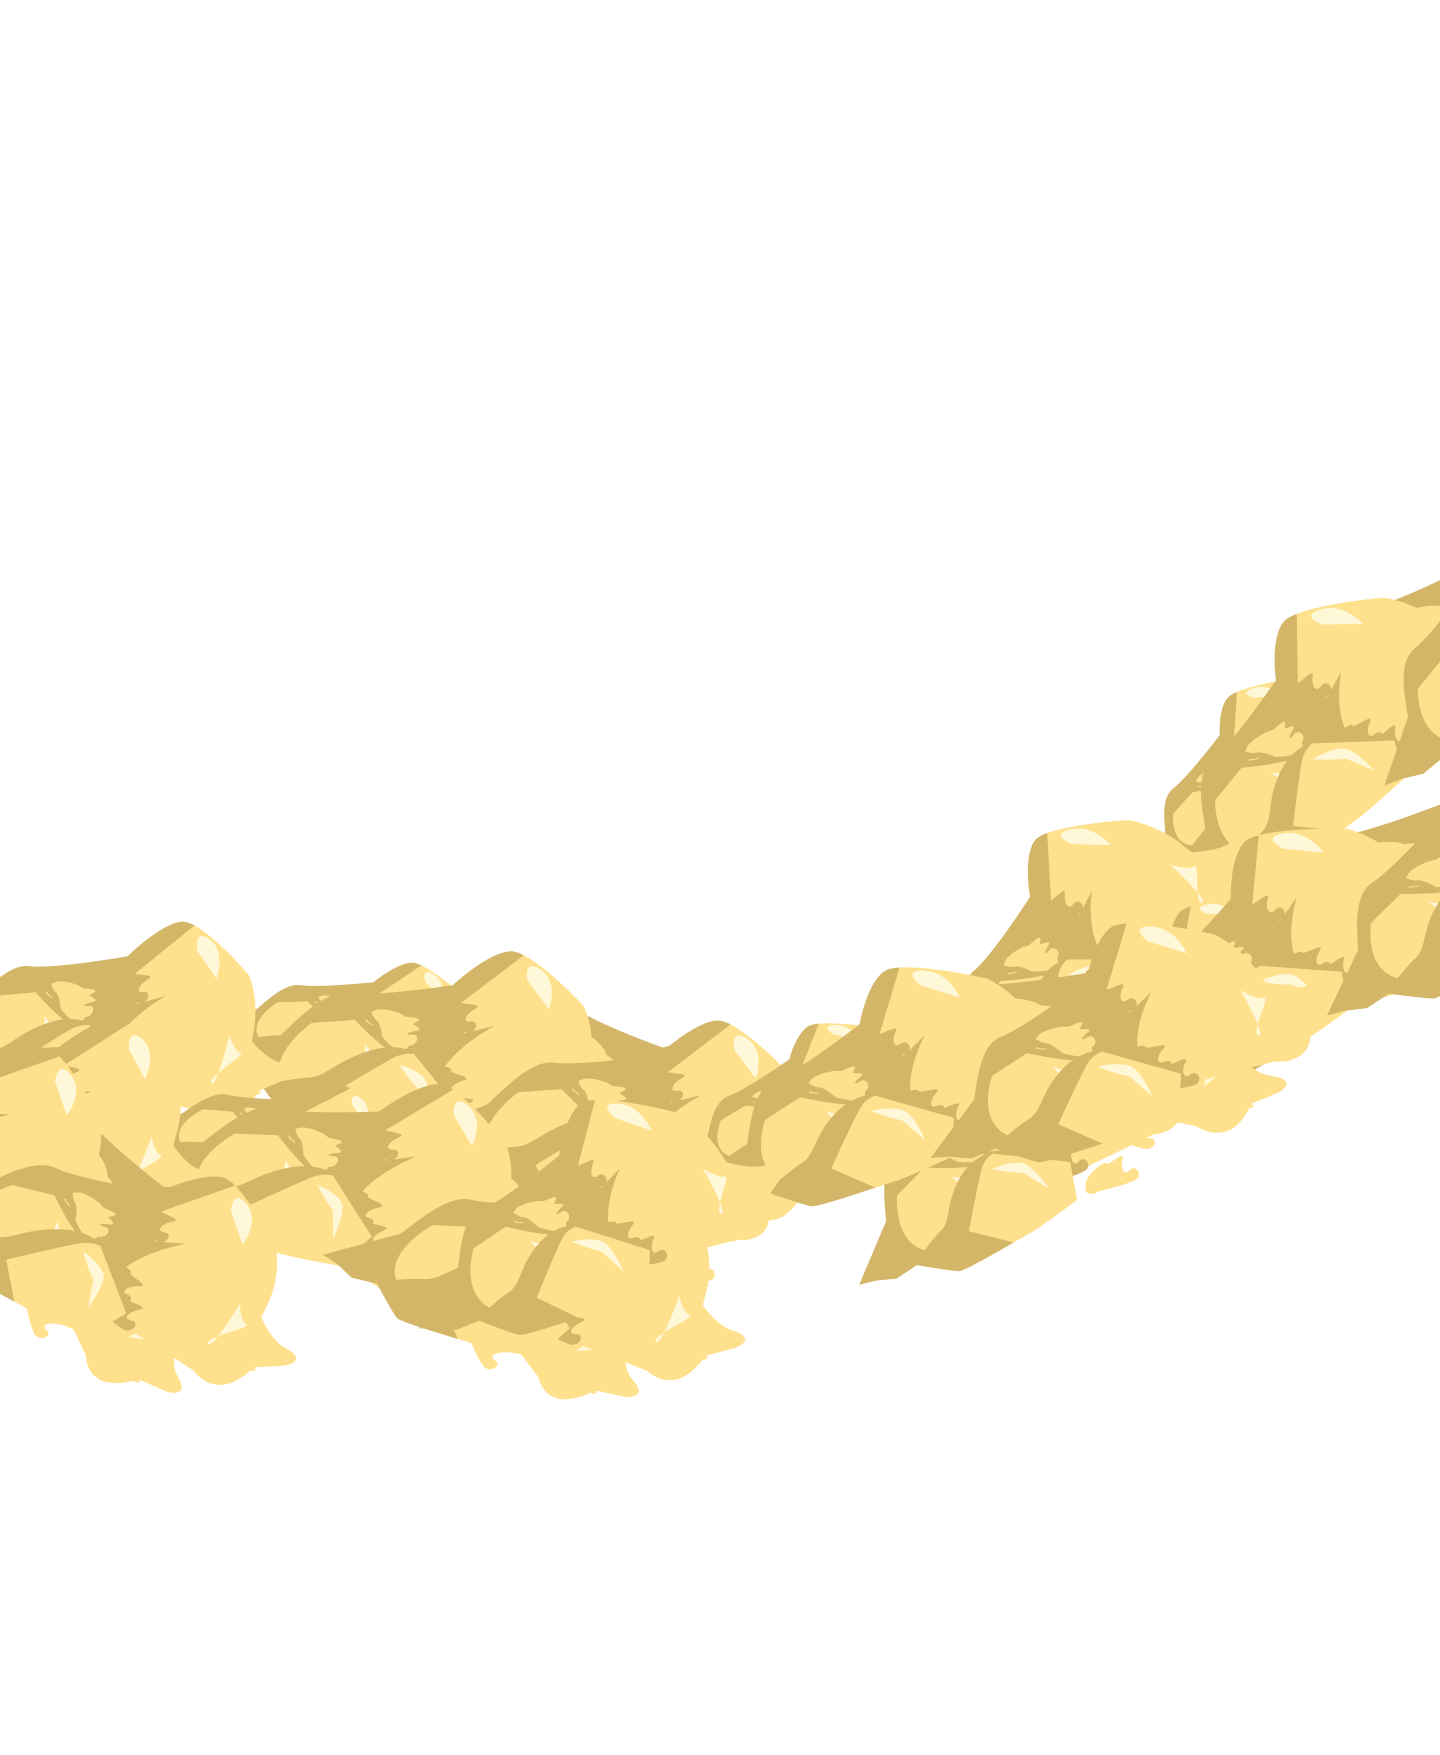
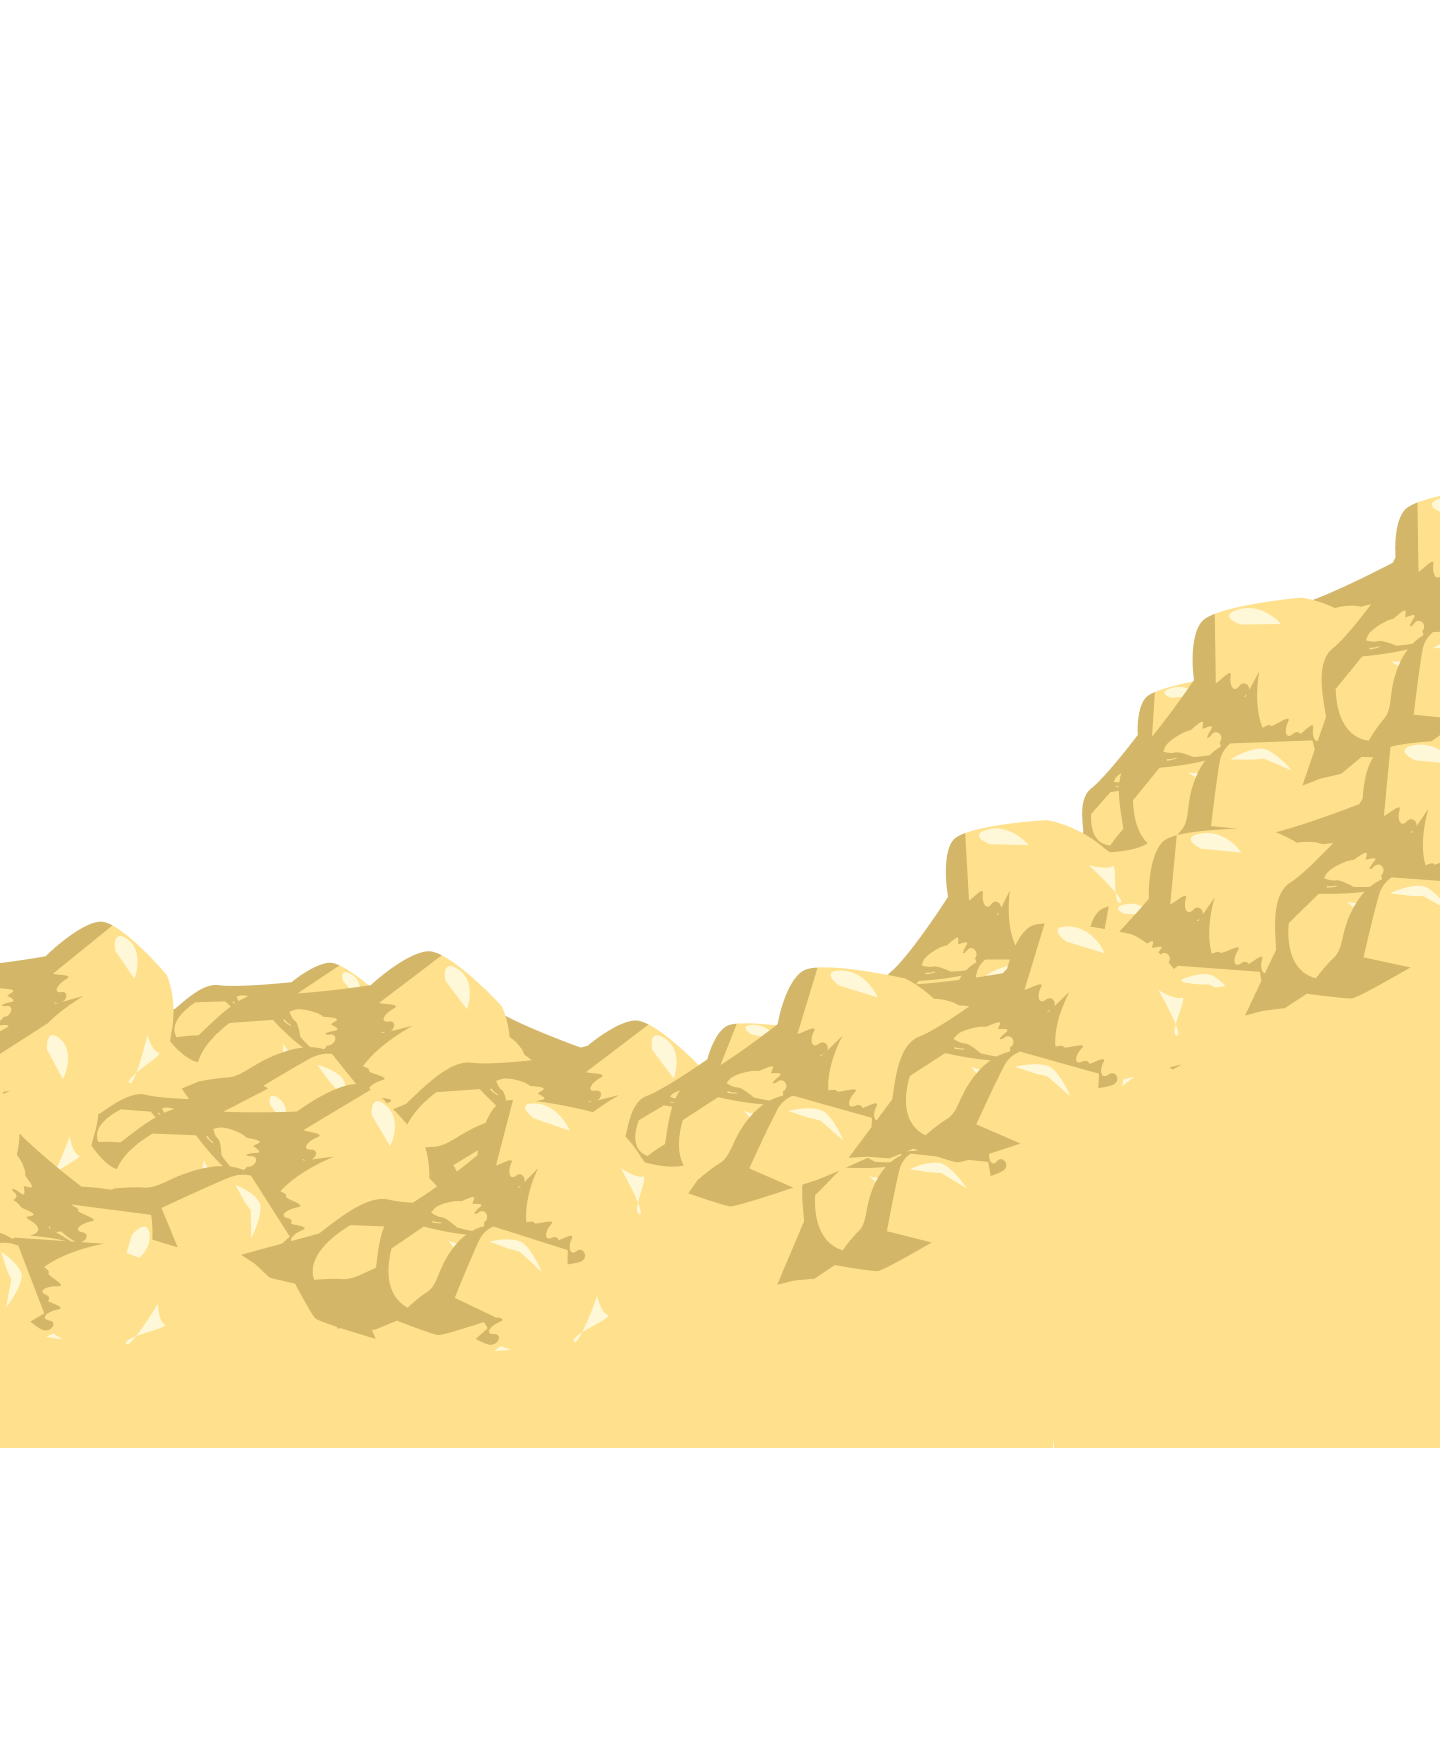
Sections statiques terminées jusque 4

Changed region(s): [[0.0, 0.2769, 1.0, 0.8308]]

diff --git a/index.html b/index.html
@@ -17,11 +17,11 @@
       <!-- Pile de sable solo -->
       <img class="col-span-full row-span-full w-auto h-auto justify-self-end mt-40" src="./src/assets/single-sand-pile.png">
 
-      <!-- Road -->
+      <!-- Road bis -->
       <svg class="col-span-full row-span-full w-auto h-auto justify-self-end mt-206" xmlns="http://www.w3.org/2000/svg" width="208" height="1005" viewBox="0 0 208 1005" fill="none"><path d="M177.029 8.70079e-05L0 0L214.382 114.093L519.349 566.384L256 853C311.324 951.675 410.775 1096.76 681.864 924.082C952.954 751.401 893.941 613.666 830.549 566.384L309.047 37.5215L177.029 8.70079e-05Z" fill="black" /><path d="M93 2L352 100" stroke="#EEFF00" stroke-width="2" />
       </svg>
 
-      <h1 class="col-span-full row-span-full justify-self-start self-center font-bold text-9xl w-200 ml-50 ">Le sable une ressource fragile ?</h1>
+      <h1 class="col-span-full row-span-full justify-self-start self-center font-extrabold text-9xl w-200 ml-40 ">Le sable une ressource fragile ?</h1>
 
       <!-- Ademe logo -->
       <div class="z-10 w-30 col-span-full row-span-full justify-self-end mt-5 mr-5">
@@ -31,34 +31,157 @@
     </section>
 
     <!-- Section 2 -->
-    <section class="grid grid-cols-1 grid-rows-1 h-210 bg-bg-blue rounded-b-2xl">
+    <section class="grid grid-cols-1 grid-rows-1 h-210 bg-bg-blue">
 
-      <h1 class="z-10 col-span-full row-span-full justify-self-start text-center self-center font-bold text-8xl w-300 ml-50">50 milliards de tonnes de sable extraites chaque année</h1>
+      <h1 class="z-10 col-span-full row-span-full justify-self-start text-center self-center font-extrabold text-8xl w-300 ml-40">50 milliards de tonnes de sable extraites chaque année</h1>
 
       <!-- transition piles de sables -->
-      <section class="col-span-full row-span-full justify-self-end -mt-100 w-full">
+      <section class="col-span-full row-span-full justify-self-end -mt-145 w-full">
         <img class="w-full h-auto object-cover" src="./src/assets/sand-pile-transition.png" alt="Transition sable">
       </section>
 
     </section>
 
 
+
+    
     
     <!-- Section 3 -->
-    <section class="grid grid-cols-1 grid-rows-1 bg-bg-yellow h-250">
-      <section class="flex flex-row w-full justify-between px-50 mt-200">
-        <section>
-          <p class="text-xl font-bold">30000 Tonnes</p>
-          <p>Un kilomètre d'autoroute</p>
-        </section>
+    <section class="grid grid-cols-1 grid-rows-1 bg-bg-yellow h-fit">
 
+
+      <!-- route -->
+      <section class="col-span-full row-span-full justify-self-end mt-0 w-full">
+        <img class="w-full h-auto object-cover" src="./src/assets/road.png" alt="route">
+      </section>
+
+
+      <!-- maison -->
+      <section class="col-span-full row-span-full justify-self-end mt-100">
+        <img class="w-full h-auto object-cover" src="./src/assets/house.png" alt="Maison">
+      </section>
+
+      <!-- Text section -->
+      <section class="col-span-full row-span-full flex flex-row w-full justify-between px-40 pb-100 pt-300">
+        <section class="">
+          <p class="text-5xl font-bold">30000 Tonnes</p>
+          <p class="text-4xl">Un kilomètre d'autoroute</p>
+        </section>
         <section>
-          <p class="text-xl font-bold">200 Tonnes</p>
-          <p>Une maison de taille moyenne</p>
+          <p class="text-5xl font-bold">200 Tonnes</p>
+          <p class="text-4xl">Une maison de taille moyenne</p>
         </section>
       </section>
 
+
+      <h1 class="z-10 col-span-full row-span-full justify-self-start text-center self-center font-extrabold text-8xl w-350 pl-40 pt-300">
+        D'ou viennent toutes ces tonnes de sable?</h1>
+
+
+        <!-- transition piles de roche -->
+      <section class="col-span-full row-span-full justify-self-end mt-300 h-350">
+        <img class="w-full h-auto object-cover" src="./src/assets/rock-pile-transition.png" alt="Transition roche">
+      </section>
+
     </section>
+
+
+
+
+
+
+    <!-- Section 4 -->
+    <section class="grid grid-cols-1 grid-rows-1 bg-bg-dark-grey h-fit">
+
+
+      <!-- text box -->
+      <section class="col-span-full row-span-full flex flex-col pb-100 px-40 pt-40 text-white gap-20">
+        <section class="justify-end text-right">
+          <p class="text-7xl font-bold"> 98%</p>
+          <p class="text-4xl">du sable dans la construction provient de massifs rocheux</p>
+        </section>
+        <section>
+          <p class="text-7xl font-bold"> 40 à 45 % </p>
+          <p class="text-4xl">du sable extrait au Maroc est volé sur les plages.</p>
+        </section>
+      </section>
+
+
+      <!-- transition wave small -->
+      <section class="col-span-full row-span-full justify-self-end w-full mt-130">
+        <img class="w-full h-auto object-cover" src="./src/assets/small-wave.png" alt="Transition vague petite">
+      </section>
+
+
+
+      <!-- plage -->
+      <section class="z-20 col-span-full row-span-full justify-self-end mt-190 w-full">
+        <img class="w-full h-auto object-cover" src="./src/assets/beach.png" alt="plage">
+      </section>
+
+
+      <!-- voleur -->
+      <section class="z-20 col-span-full row-span-full justify-self-end mt-190">
+        <img class="w-full h-auto object-cover" src="./src/assets/thief.png" alt="voleur">
+      </section>
+      
+      
+      <!-- Text section -->
+      <section class="z-20 col-span-full row-span-full justify-self-start text-left w-300 pl-40 pt-250">
+        <p class="text-7xl font-bold">60 à 70%</p>
+        <p class="text-4xl">Du sable aurait été extrait  illégalement au Bangladesh</p>
+      </section>
+
+
+      <!-- Ceci sert à rendre le fond de plage jaune avant la grande vague -->
+      <section class="z-10 col-span-full row-span-full justify-self-end mt-250 w-full bg-bg-yellow">
+      </section>
+
+
+      <!-- Transition big wave -->
+      <section class="z-20 col-span-full row-span-full justify-self-end mt-300">
+        <img class="w-full h-auto object-cover" src="./src/assets/big-wave.png" alt="big wave transition">
+      </section>
+
+    </section>
+
+
+    <!-- section 5 -->
+    <section class="grid grid-cols-1 grid-rows-1 bg-bg-dark-blue h-fit">
+
+
+      <!-- Wave effect bg -->
+      <section class="z-20 col-span-full row-span-full justify-self-end w-full -mt-210 opacity-20">
+        <img class="w-full h-auto object-cover" src="./src/assets/water-effect.png" alt="wave effect bg">
+      </section>
+
+
+      <!-- card container -->
+      <section class="flex flex-col px-40 py-100 gap-20 z-20 col-span-full row-span-full text-center -mt-250">
+
+        <section class="bg-white rounded-xl p-10 opacity-80">
+          <p class="text-3xl">75 à 90 % des plages reculent dans le monde.</p>
+        </section>
+
+        <section class="bg-white rounded-xl p-10 opacity-80">
+          <p class="text-3xl">9 plages sur 10 sont en voie de disparition en Floride</p>
+        </section>
+
+        <section class="bg-white rounded-xl p-10 opacity-80">
+          <p class="text-3xl">25 % du sable exploitable est retenu par des barrages, ce qui empêche la régénération</p>
+        </section>
+
+      </section>
+
+
+
+
+
+
+
+    </section>
+
+
   </main>
 
 
@@ -67,11 +190,7 @@
 
 
 
-  
-  D'ou viennent toutes ces tonnes de sable?
-  98%du sable dans la construction provient de massifs rocheux
-  40 à 45 %
-  sable extrait au Maroc est volé sur les plages.
+
   60 à 70 %
   Du sable aurait été extrait illégalement au Bangladesh
   75 à 90 % des plages reculent dans le monde.

diff --git a/src/style.css b/src/style.css
@@ -7,15 +7,18 @@
 
 @theme inline {
     --color-bg-blue: var(--bg-blue);
+    --color-bg-dark-blue: var(--bg-dark-blue);
     --color-bg-yellow: var(--bg-yellow);
+    --color-bg-dark-grey: var(--bg-dark-grey);
+
     --ff : var(font-family);
 }
 
 :root {
     --bg-blue: #79B0E0;
+    --bg-dark-blue: #2B49AD;
     --bg-yellow: #FFE18D;
-    --bg-3: #79B0E0;
-    --bg-4: #79B0E0;
+    --bg-dark-grey: #4D4A40;
     --bg-5: #79B0E0;
     --bg-6: #79B0E0;
     --bg-7: #79B0E0;
